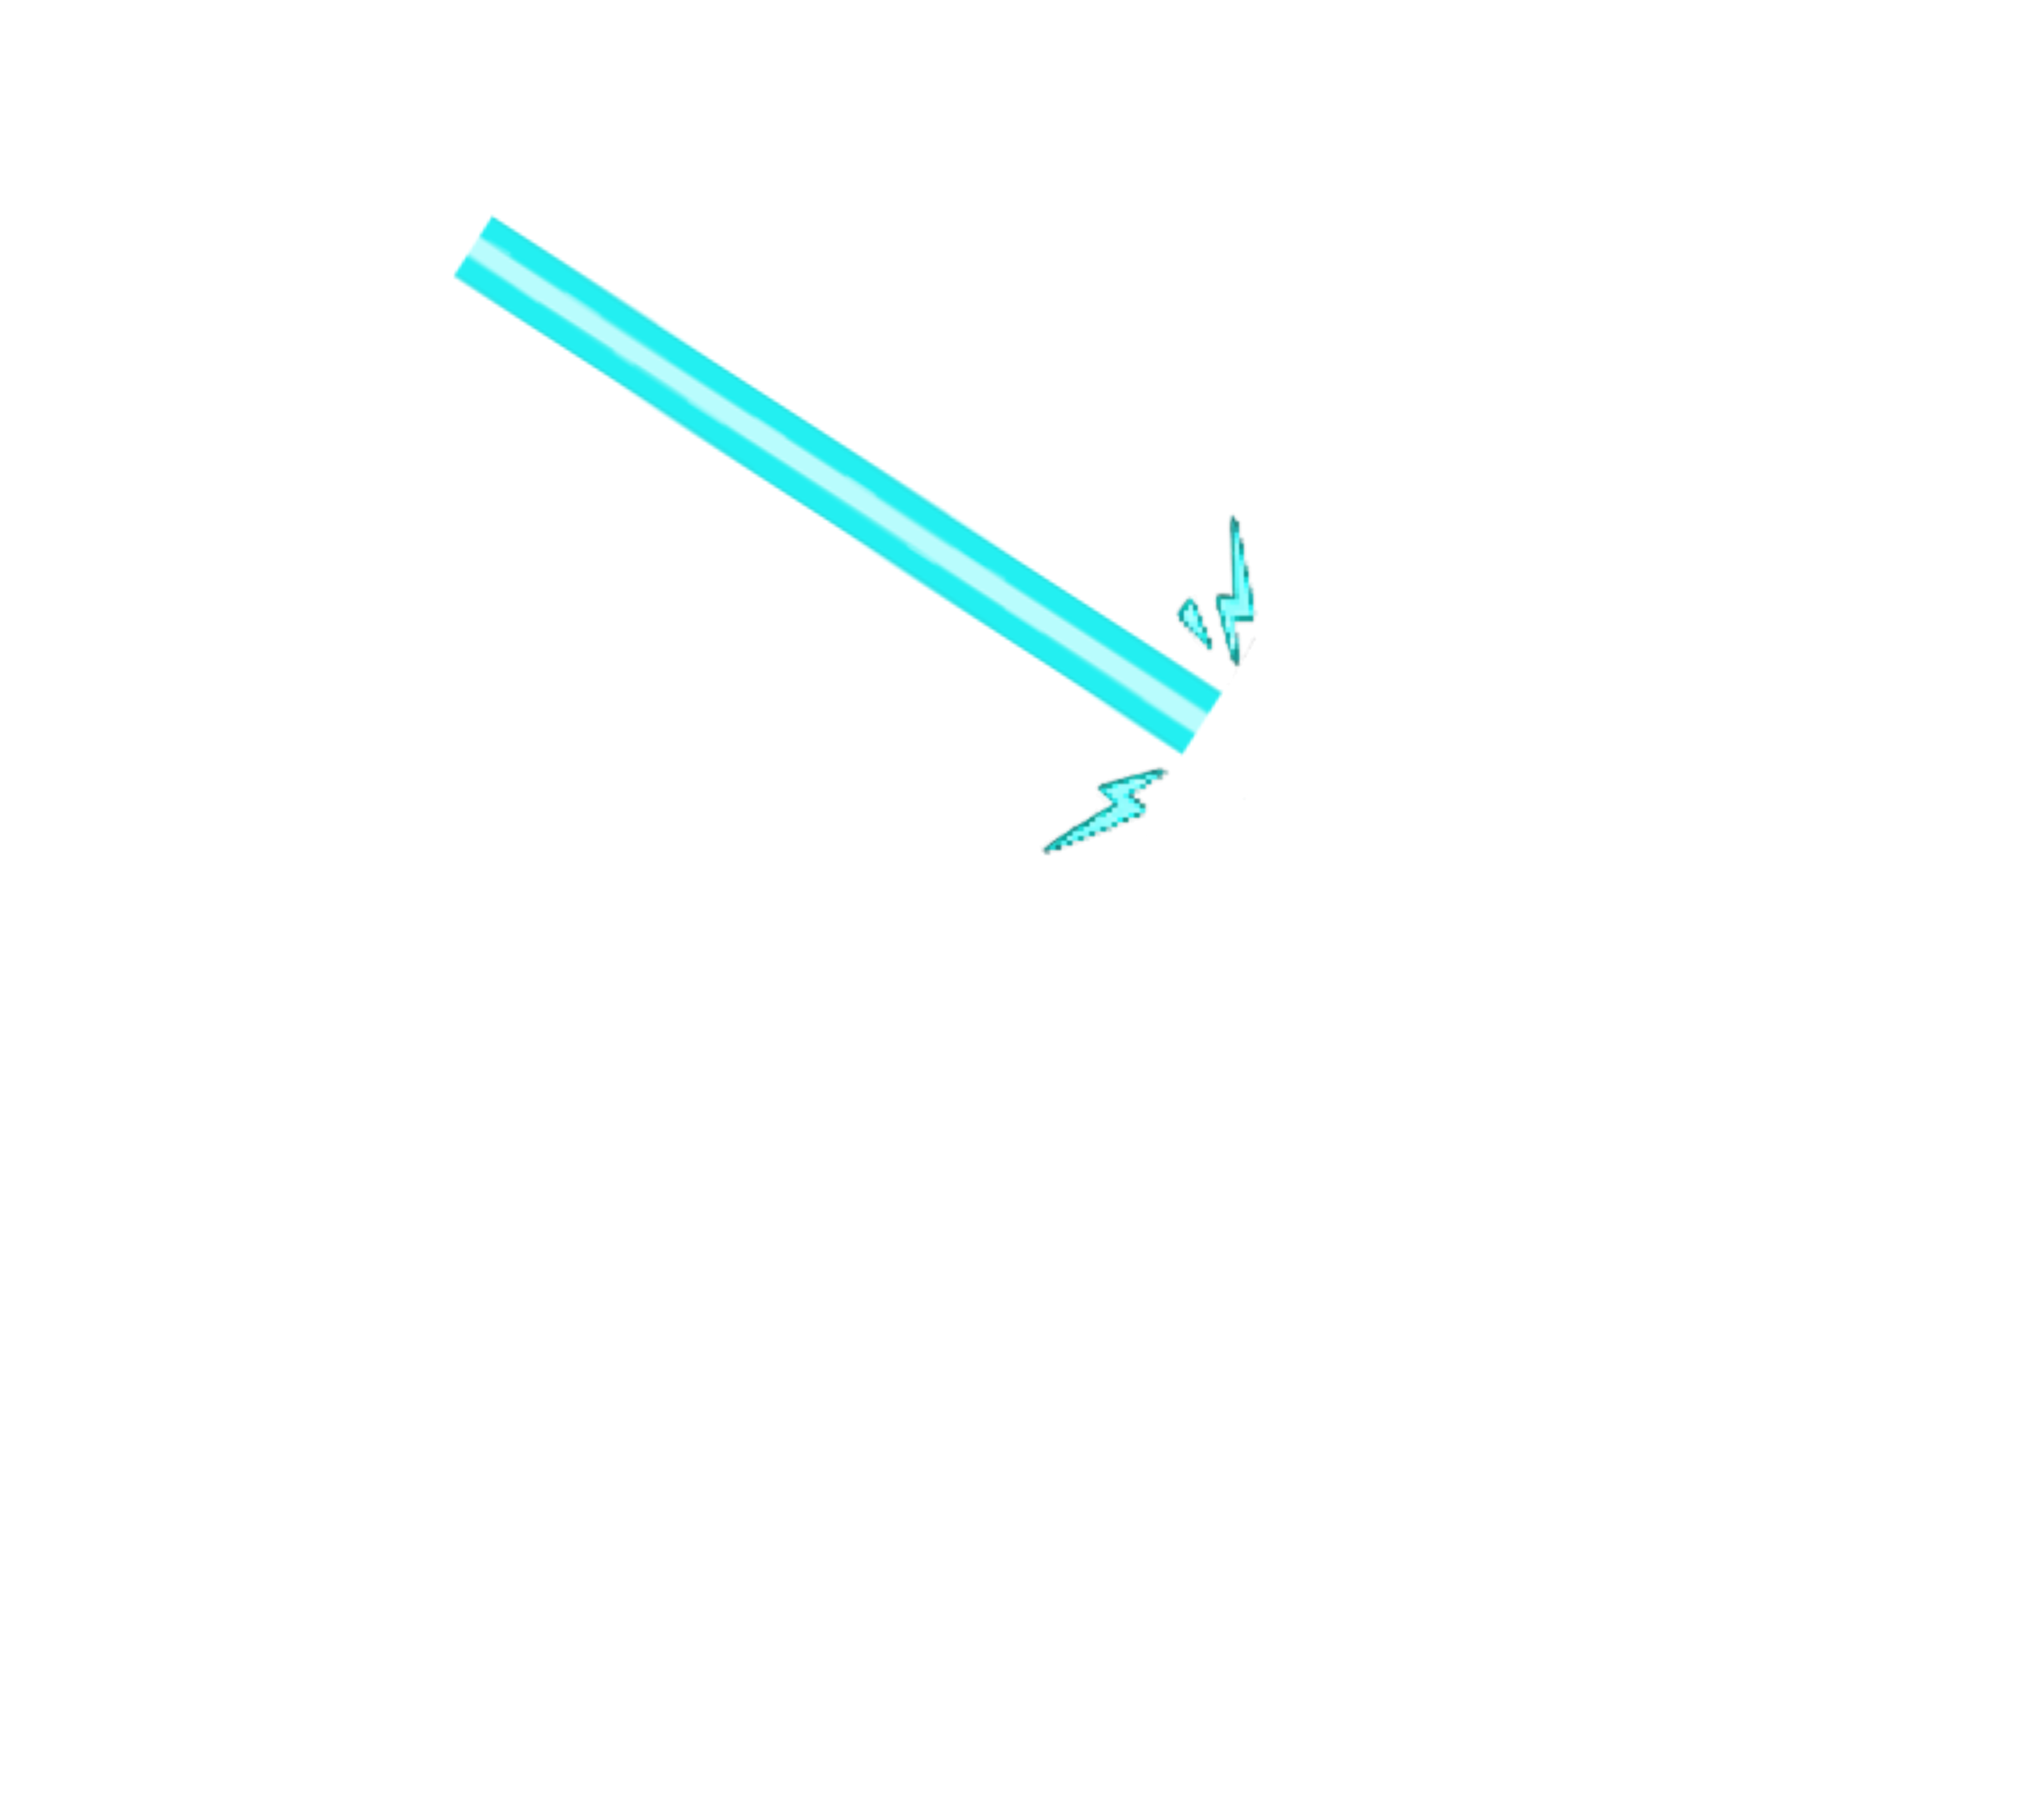
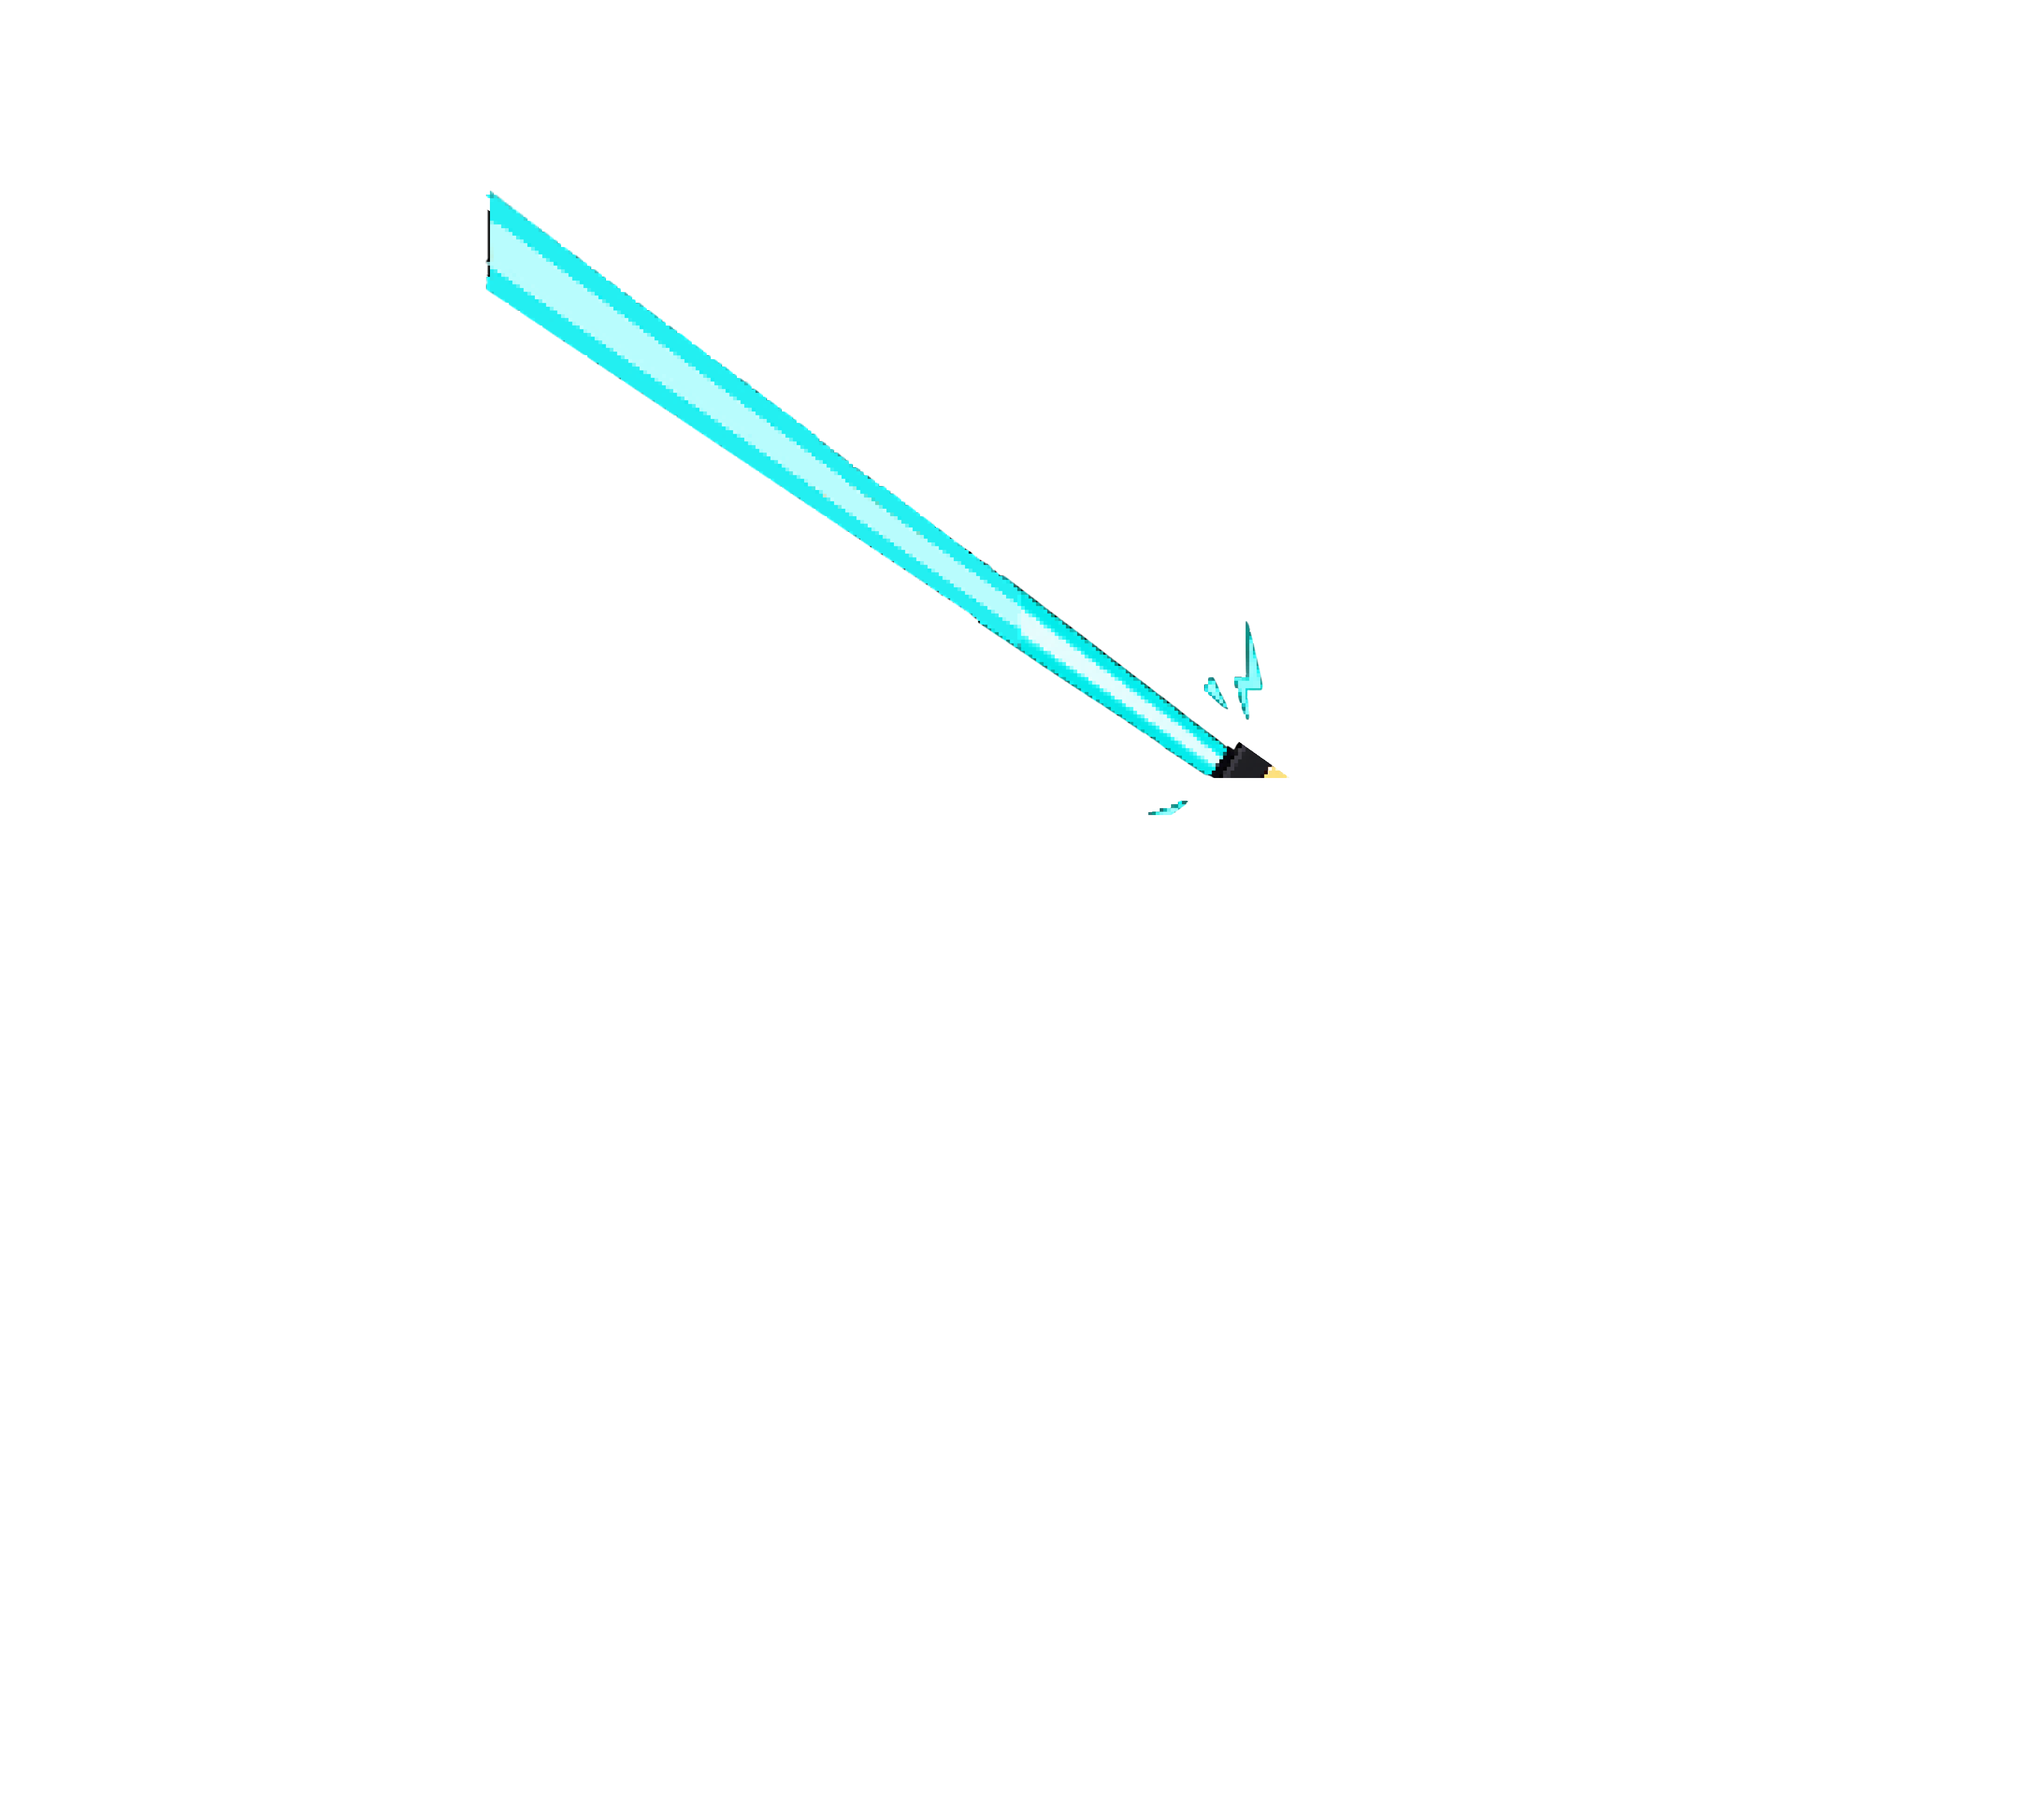
Align laser beam and muzzle sparks with gun barrel

Changed region(s): [[0.2188, 0.0937, 0.625, 0.4685]]

diff --git a/apps/web/app/globals.css b/apps/web/app/globals.css
@@ -214,13 +214,13 @@ body {
    the same path, so the bolt leaves through the tip like a projectile
    rather than retracting back into the gun. The overlay holds only beam +
    sparks, so nothing else can leak. Vertices are in the artwork's own
-    percentage box (beam runs from tip (23.5%,13.7%) to muzzle (59.3%,40.0%)
+    percentage box (beam runs from tip (23.8%,13.1%) to muzzle (62.3%,43.8%)
     of the 4096x3650 frame, measured from gun-beam.png's alpha), so the same keyframes work on desktop (rotated
     wrapper) and mobile at any width without per-layout numbers. Linear
     timing so both sweeps travel at a constant speed. */
 .gun-fire-beam {
   opacity: 0;
-  clip-path: polygon(28.2% 115.4%, 108.4% -22.2%, 108.4% -22.2%, 28.2% 115.4%);
+  clip-path: polygon(29.5% 118.5%, 114.4% -15.4%, 114.4% -15.4%, 29.5% 118.5%);
 }
 
 .gun-fire-beam.is-firing {
@@ -230,17 +230,17 @@ body {
 @keyframes gun-fire-reveal {
   0% {
     opacity: 1;
-    clip-path: polygon(28.2% 115.4%, 108.4% -22.2%, 108.4% -22.2%, 28.2% 115.4%);
+    clip-path: polygon(29.5% 118.5%, 114.4% -15.4%, 114.4% -15.4%, 29.5% 118.5%);
   }
   18%,
   55% {
     opacity: 1;
-    clip-path: polygon(-22.0% 78.5%, 58.2% -59.0%, 108.4% -22.2%, 28.2% 115.4%);
+    clip-path: polygon(-24.4% 75.4%, 60.5% -58.5%, 114.4% -15.4%, 29.5% 118.5%);
   }
   80%,
   100% {
     opacity: 1;
-    clip-path: polygon(-22.0% 78.5%, 58.2% -59.0%, 58.2% -59.0%, -22.0% 78.5%);
+    clip-path: polygon(-24.4% 75.4%, 60.5% -58.5%, 60.5% -58.5%, -24.4% 75.4%);
   }
 }
 
